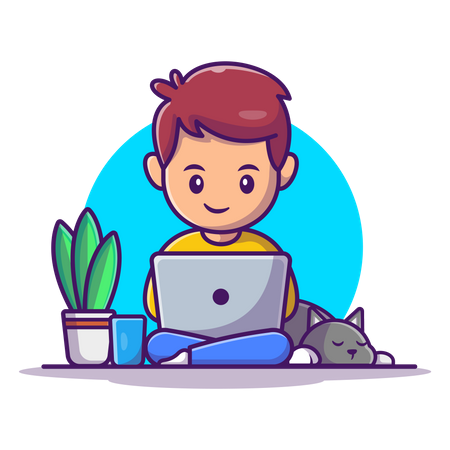
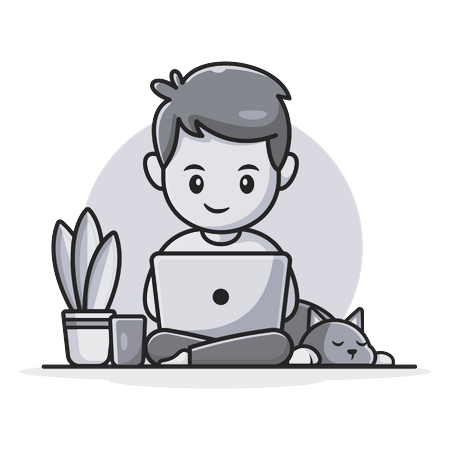
changes

diff --git a/src/components/ExperienceVue.vue b/src/components/ExperienceVue.vue
@@ -2,7 +2,7 @@
     <div id="experience">
         <v-row >
         <v-col cols="12" xs="12" md="12" class="d-flex justify-center">
-            <span class="black--text text-h4 font-weight-bold">Experience</span>
+            <span class="black--text text-h4 font-weight-light">Experience</span>
         </v-col>
         <v-col cols="12" md="12" xs="12" class="d-flex justify-center">
             <p  class="text-center text-paragraph"    :class="{'text-paragraph':$vuetify.breakpoint.mdAndUp }" style="max-width: 600px;">Here I present my journey as a full-stack web developer, highlighting my extensive experience in blockchain, finance, and mentorship. Through my portfolio, I showcase the diverse projects and technologies I've mastered, demonstrating my expertise in web development and beyond.</p>
@@ -12,7 +12,7 @@
 
     <v-row >
         <v-col class="d-flex justify-center mb-6">
-            <v-card  rounded outlined   style="background-color: rgba(242, 243, 247, 1);" class="rounded-lg" :class="{'active-hover':expand}"  @mouseover="expand=true" @mouseleave="expand=false" :width="$vuetify.breakpoint.mdAndUp ? '600':'350'"   :height="expand ? ($vuetify.breakpoint.mdAndUp ? '440':'720') : ($vuetify.breakpoint.mdAndUp ? '260':'420')">
+            <v-card  rounded outlined   style="background-color: rgba(242, 243, 247, 0.3);" class="rounded-lg" :class="{'active-hover':expand}"  @mouseover="expand=true" @mouseleave="expand=false" :width="$vuetify.breakpoint.mdAndUp ? '600':'350'"   :height="expand ? ($vuetify.breakpoint.mdAndUp ? '440':'720') : ($vuetify.breakpoint.mdAndUp ? '260':'420')">
                 <v-row >
                     <v-col  cols="12" md="12" xs="12" class="d-flex align-center ml-4">
                         <v-sheet
@@ -35,7 +35,7 @@
 
                 <v-row class="mb-4" no-gutters>
                     <v-col cols="12" xs="12" md="12" class="pl-4">
-                        <p class="pa-1 text-paragraph  text-subtitle-4"  
+                        <p class="pa-1 customeducationtext"  
    >{{ expand ?  fulltext :truncatetext }}<span v-if="$vuetify.breakpoint.mobile && !expand" @click="expand=true" class="caption ml-3 info--text">seemore...</span> <span v-if="$vuetify.breakpoint.mobile && expand" @click="expand=false" class="caption ml-3 info--text">seeless...</span></p>
                       
                     </v-col> 
@@ -92,5 +92,12 @@ export default{
   border-color: #000000 !important; /* Green border on hover */
   background-color: rgba(0, 255, 0, 0.1); /* Light green background on hover */
   transition: border-color 0.3s ease, background-color 0.3s ease; /* Smooth transition */
+}
+.customeducationtext{
+    color: rgba(2, 3, 34, .6);
+    font-family: wfont_1f4e5a_a4dab464d39a4954a3f7d14cdb48d3ed, wf_a4dab464d39a4954a3f7d14cd, orig_wix_madefor_display_regular;
+    font-size: max(0.5px, 0.0416667*(var(--scaling-factor) - var(--scrollbar-width)));
+    text-decoration: none;
+
 }
 </style>

diff --git a/src/components/EducationVue.vue b/src/components/EducationVue.vue
@@ -2,7 +2,7 @@
     <div id="education">
         <v-row >
             <v-col cols="12" md="12" xs="12">
-                <p class="black--text text-h4 d-flex justify-center font-weight-medium">Education</p>
+                <p class="black--text text-h4 d-flex justify-center font-weight-light">Education</p>
             </v-col>
             <v-col cols="12" md="12" xs="12" class="d-flex justify-center">
                 <p  style="max-width: 600px;" class="text-paragraph  text-center d-flex justify-center"  :class="{'text-paragraph':$vuetify.breakpoint.mdAndUp}"  >My education has been a journey of self-discovery and growth. My educational details are as follows.</p>
@@ -42,7 +42,7 @@
                     <v-col md="2">
 
                     </v-col>
-                    <span  class="black--text text-subtitle-3 d-flex justify-start d-block mb-6 pl-2" :class="{'caption':$vuetify.breakpoint.mobile}">{{ n.cgpa }}<br>{{ n.description }}</span>
+                    <span  class="design d-flex justify-start d-block mb-6 pl-2" :class="{'caption':$vuetify.breakpoint.mobile}">{{ n.cgpa }}<br>{{ n.description }}</span>
                     <!-- <span  class="white--text d-flex justify-start d-block">Welcome</span> -->
                  </v-row>
                  <v-row>
@@ -109,7 +109,17 @@ export default{
   background-color: rgba(0, 255, 0, 0.1); /* Light green background on hover */
   transition: border-color 0.3s ease, background-color 0.3s ease; /* Smooth transition */
 }
+/* .customeducationtext{
+    color: rgba(2, 3, 34, .6);
+    font-family: wfont_1f4e5a_a4dab464d39a4954a3f7d14cdb48d3ed, wf_a4dab464d39a4954a3f7d14cd, orig_wix_madefor_display_regular;
+    font-size: max(0.5px, 0.0416667*(var(--scaling-factor) - var(--scrollbar-width)));
+    text-decoration: none;
 
-
+} this is okay now for comment for other sedigns      */ 
+.design{
+    color: #707177;
+    font-size: 16px;
+    font-weight: 170;
+}
 
 </style>

diff --git a/src/components/HelloWorld.vue b/src/components/HelloWorld.vue
@@ -11,7 +11,7 @@
       'd-flex justify-end pl-10  text-center text-h6 pa-9':$vuetify.breakpoint.mobile,'order-0':$vuetify.breakpoint.mdAndUp,'order-1':$vuetify.breakpoint.mobile }"
     v-show="$vuetify.breakpoint.mdAndUp"
   >   
-        <v-col column cols="12">
+        <v-col column cols="12" class="mt-7">
           <p  class=" text-paragraph"> 
           <span class="display-1 font-weight-bold d-flex justify-center mb-4 typewriter black--text">Hi,&nbsp;I am &nbsp; <a class="font-weight-bold display-1 black--text">Gokul S</a></span>
           
@@ -24,7 +24,7 @@
           realm through my creative contributions. 
           
          </p> 
-         <v-btn    large color="black" class="white--text" :block="$vuetify.breakpoint.mobile"  target="_blank" :href="'/GokulResume.pdf'">View my Resume</v-btn>
+         <v-btn   outlined large color="black" class="black--text" :block="$vuetify.breakpoint.mobile"  target="_blank" :href="'/GokulResume.pdf'">View my Resume</v-btn>
         </v-col>
         
       
@@ -51,10 +51,10 @@
       'order-1':$vuetify.breakpoint.mdAndUp,'order-0':$vuetify.breakpoint.mobile
     }">
     <v-img
-      lazy-src="https://sirancheevi.com/static/media/portfolio.9ab12bcb3d562306dd3e.png"
-      :height="$vuetify.breakpoint.mobile ? '283' :'403'"
+      lazy-src="../assets/developer.png"
+      :height="$vuetify.breakpoint.mobile ? '283' :'433'"
       max-width="362"
-      src="https://sirancheevi.com/static/media/portfolio.9ab12bcb3d562306dd3e.png"
+      src="../assets/developer.png"
     ></v-img>
   </v-col>   
 

diff --git a/src/components/ContactVue.vue b/src/components/ContactVue.vue
@@ -5,7 +5,7 @@
        
         <v-row class="pt-10 ">
             <v-col cols="12" md="12" xs="12" >
-                <span class="black--text d-flex justify-center text-h4 font-weight-medium">Get in touch</span>
+                <span class="black--text d-flex justify-center text-h4 font-weight-light">Get in touch</span>
             </v-col>
             <v-col cols="12" md="12" xs="12" >
                 <span class="black--text d-flex justify-center px-6  text-paragraph">Feel free to reach out to me for any questions or &nbsp; <span class="black--text">opportunities!</span>
@@ -55,7 +55,7 @@
                        <textarea placeholder="Message" class="input" :style="$vuetify.breakpoint.mdAndUp? {height:'140px'} : {height:'130px',width:'310px'}" v-model="mailDetails.description"></textarea>
                     </v-col>
                     <v-col  xs="10" class="d-flex justify-center px-10">
-                       <v-btn class="white--text font-weight-bold black"  block height="40" @click="SendEmailProcess()">Send</v-btn>
+                       <v-btn class="white--text font-weight-light black"  block height="40" @click="SendEmailProcess()">Send</v-btn>
                     </v-col>
                 </v-row>
 

diff --git a/src/components/NavigationBar.vue b/src/components/NavigationBar.vue
@@ -31,7 +31,7 @@
           <v-col md="9">
             <ul>
               <li v-for="(n, index) in navBarItem" :key="index">
-                <v-btn text  class=" black--text text-capitalize active-hover"       @click="setActive(n)">{{ n }}</v-btn>
+                <v-btn text   :class="{'black white--text rounded-lg':blackcolorindex == index}"  @mouseover="mapBlackColor(index)" @mouseleave="blackcolorindex=null"  class=" black--text text-capitalize active-hover"       @click="setActive(n)">{{ n }}</v-btn>
               </li>
             </ul>
           </v-col>
@@ -51,6 +51,7 @@ export default {
       Drawer: false,
       navBarItem: ["About", "Skills", "Experience", "Education", "Contact"],
       activeItem: "About",
+      blackcolorindex:null
     };
   },
   components: {
@@ -69,6 +70,9 @@ export default {
           block: 'start', // You can adjust this based on where you want the section to land
         });
       }
+    },
+    mapBlackColor(index){
+      this.blackcolorindex = index
     }
   },
  

diff --git a/src/components/SkillsSet.vue b/src/components/SkillsSet.vue
@@ -1,7 +1,7 @@
 <template>
   <div id="skills" class="mt-3">
      <v-row >
-  <v-col cols="12" xs="12" md="12" class="d-flex justify-center display-1 font-weight-bold black--text ">Skills</v-col>
+  <v-col cols="12" xs="12" md="12" class="d-flex justify-center display-1 font-weight-light black--text ">Skills</v-col>
   <v-col cols="12" md="12" xs="12" class="text-center">
     <p   :class="{'d-flex justify-center text-paragraph ':$vuetify.breakpoint.mdAndUp ,'text-h6 font-weight-medium':$vuetify.breakpoint.mobile}">
       Here are some of my skills,which i have been working on web

diff --git a/src/components/FooterVue.vue b/src/components/FooterVue.vue
@@ -9,11 +9,10 @@
     style="width: 100%;"
   >
     <v-card
-    style="background-color: rgba(242, 243, 247, 0.8);"
+    
       outlined
-      flat
-      tile
-      class=" white--text text-center"
+     
+      class=" white--text text-center black"
       width="1900"
     >
       <v-card-text>
